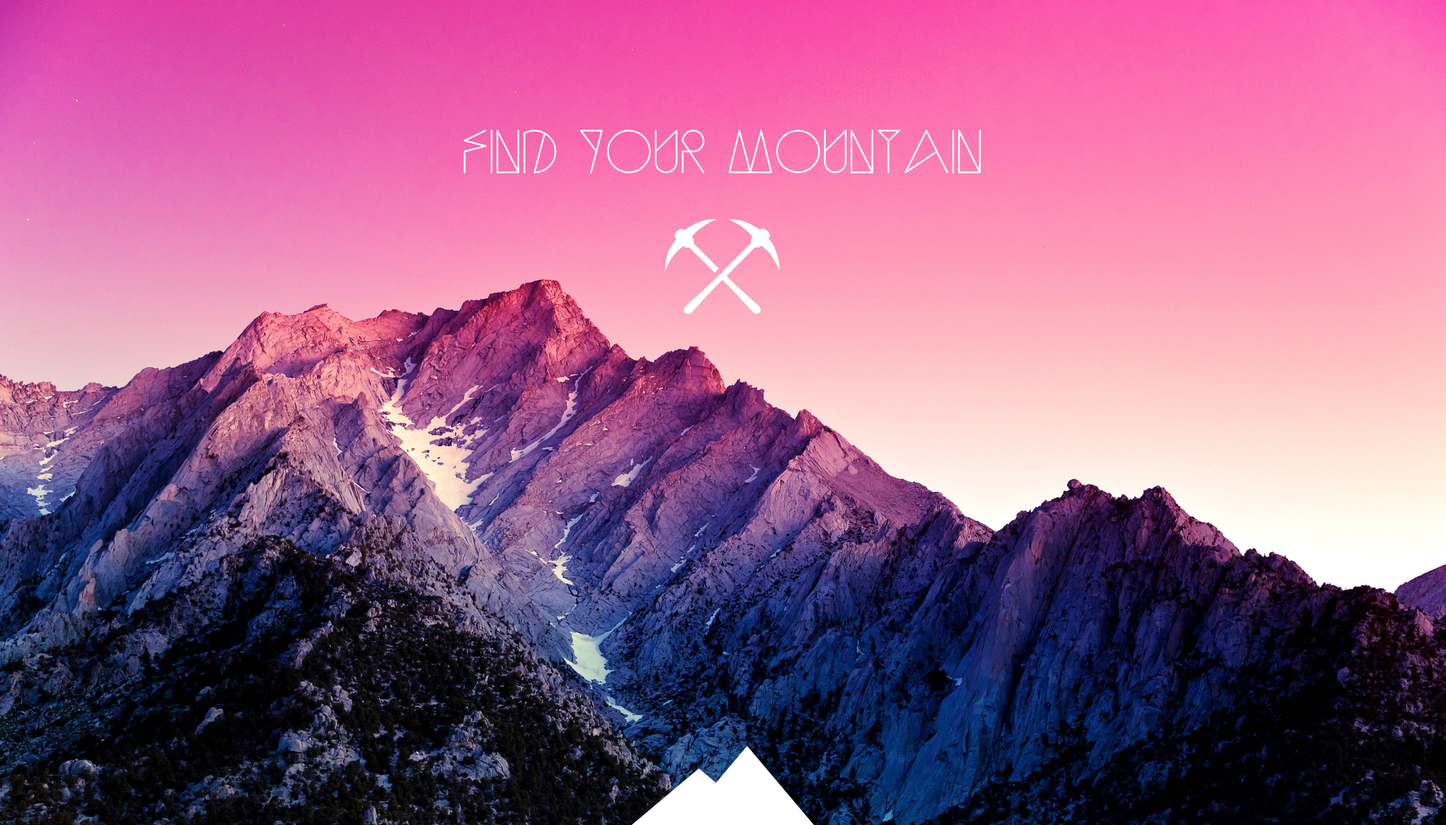
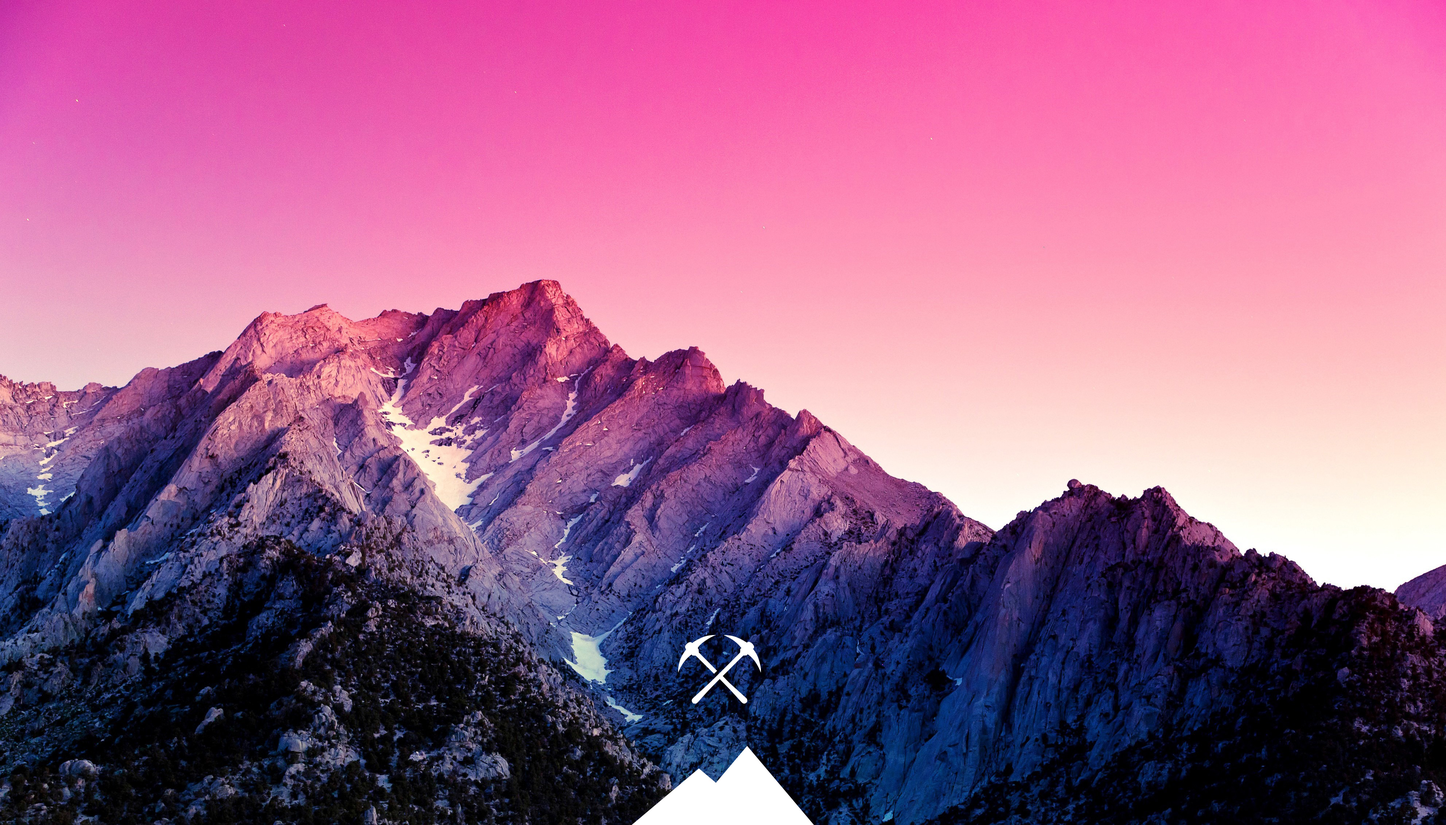
design updates, bug fixes, polished put route (working)

diff --git a/public/css/style.css b/public/css/style.css
@@ -102,20 +102,33 @@ html {
 	width: 100%;
 }
 
-/*Content Sections*/
+#hero-healine-block {
+	display: block;
+	position: absolute;
+	height: 100%;
+}
+
+#hero-headline {
+	text-align: center;
+	margin-top: 175px;
+	color: white;
+    font-size: 80px;
+    font-family: Sequi_regular;
+}
+
+/*Index Content Sections*/
 .main-content {
 	height: auto;
 	padding:0;
 	position: relative;
 	width: 100%;
-	border-top: 2px solid #E972B6;
 }
 
 #mountain-list-header {
 	font-family: Sequi_light;
 	text-align: center;
 	color: #5D6683;
-	margin: 30px 0 0 0;
+	margin: 40px 0 0 0;
 	font-size: 50px;
 }
 
@@ -142,7 +155,6 @@ html {
 
 #mountain-data {
 	margin:0 0 15px 0;
-    font-size: 20px;
     font-size: 1.8vw;
 	color: #5D6683;
 }
@@ -198,7 +210,6 @@ html {
 }
 
 #elevation-data {
-    font-size: 25px;
     font-size: 2.2vw;
 	color: #5D6683;
 }
@@ -230,22 +241,24 @@ html {
 	width: 100%;
 }
 
+#mountain-main-content{
+	border-top: 2px solid #E972B6;
+}
+
 #mountain-healine-block {
 	text-align: center;
 	display: block;
 	position: absolute;
-	height: 85px;
-    bottom: 0;
+	height: 100%;
     left: 0;
-    background: rgba(93, 102, 131, .6);
-    vertical-align: middle;
+	background: rgba(93, 102, 131, .5);
 }
 
 #mountain-headline {
+	margin-top: 110px;
 	color: white;
     font-size: 55px;
     font-family: Sequi_bold;
-    padding-top: 10px;
 }
 
 #break-line {

diff --git a/app.rb b/app.rb
@@ -1,9 +1,15 @@
 class Fourteener < Sinatra::Base
 	set :method_override, true
 	require 'json'
+	
 	# General route actions
 	get '/' do
-		@mountains = Mountain.all
+		@mountains = Mountain.all.order(:rank)
+		erb :index
+	end
+
+	get '/mountains' do
+		@mountains = Mountain.all.order(:rank)
 		erb :index
 	end
 
@@ -11,11 +17,7 @@ class Fourteener < Sinatra::Base
 		erb :about
 	end
 
-	#Mountain Routes - Getting
-	get '/mountains' do
-		@mountains = Mountain.all
-		erb :index
-	end
+	#Mountain Routes - Get One
 
 	get '/mountains/:id' do
 		@mountain = Mountain.find(params[:id])
@@ -27,7 +29,6 @@ class Fourteener < Sinatra::Base
 	    request.body.rewind
 	    new_mountain = URI::decode_www_form(request.body.read).to_h
 	    @mountain = Mountain.create new_mountain
-	    redirect to ('/mountains')
  	end
 
  	put '/mountains/:id' do
